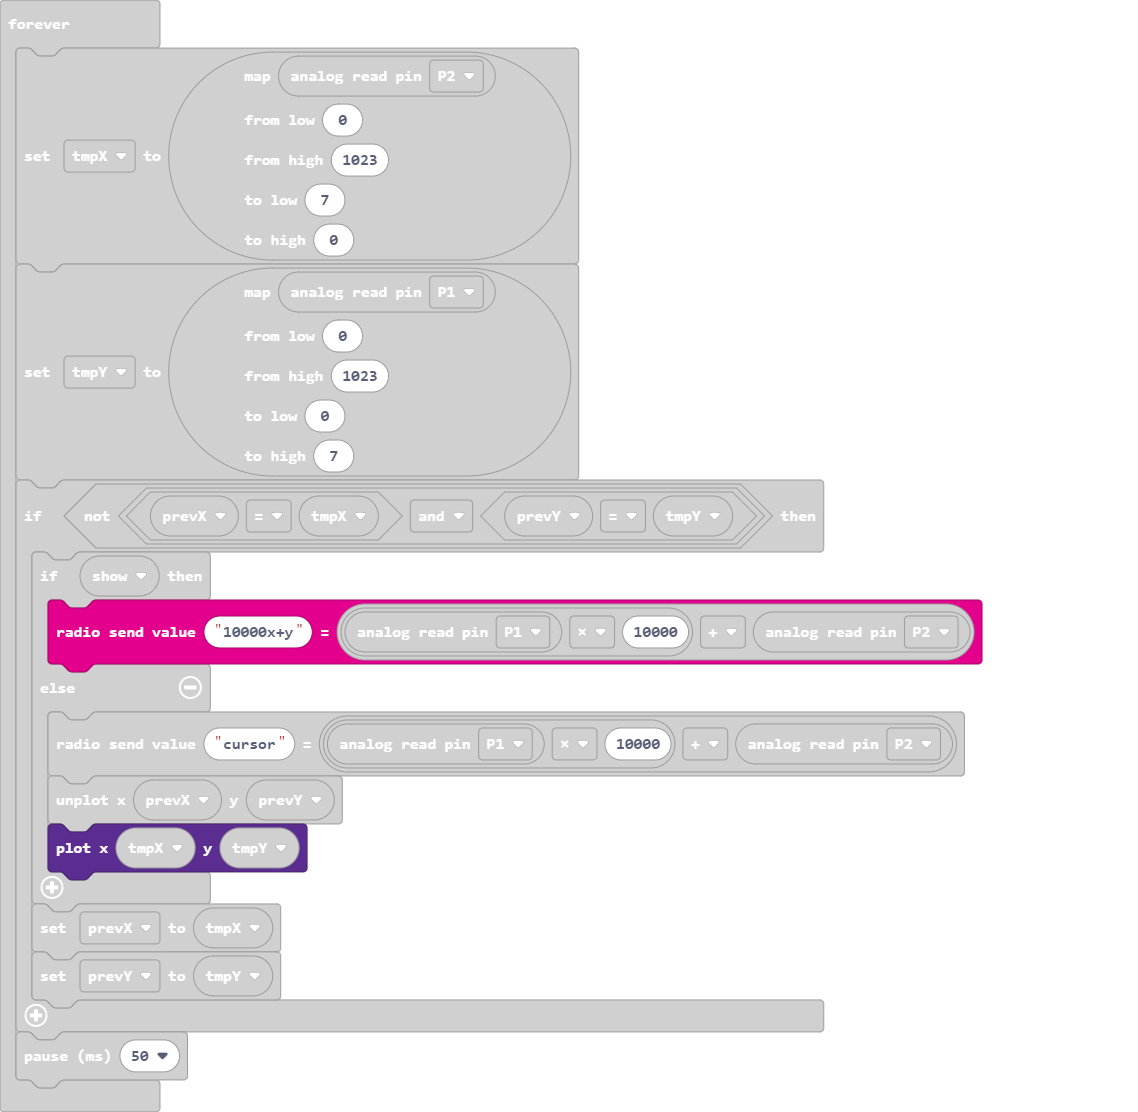
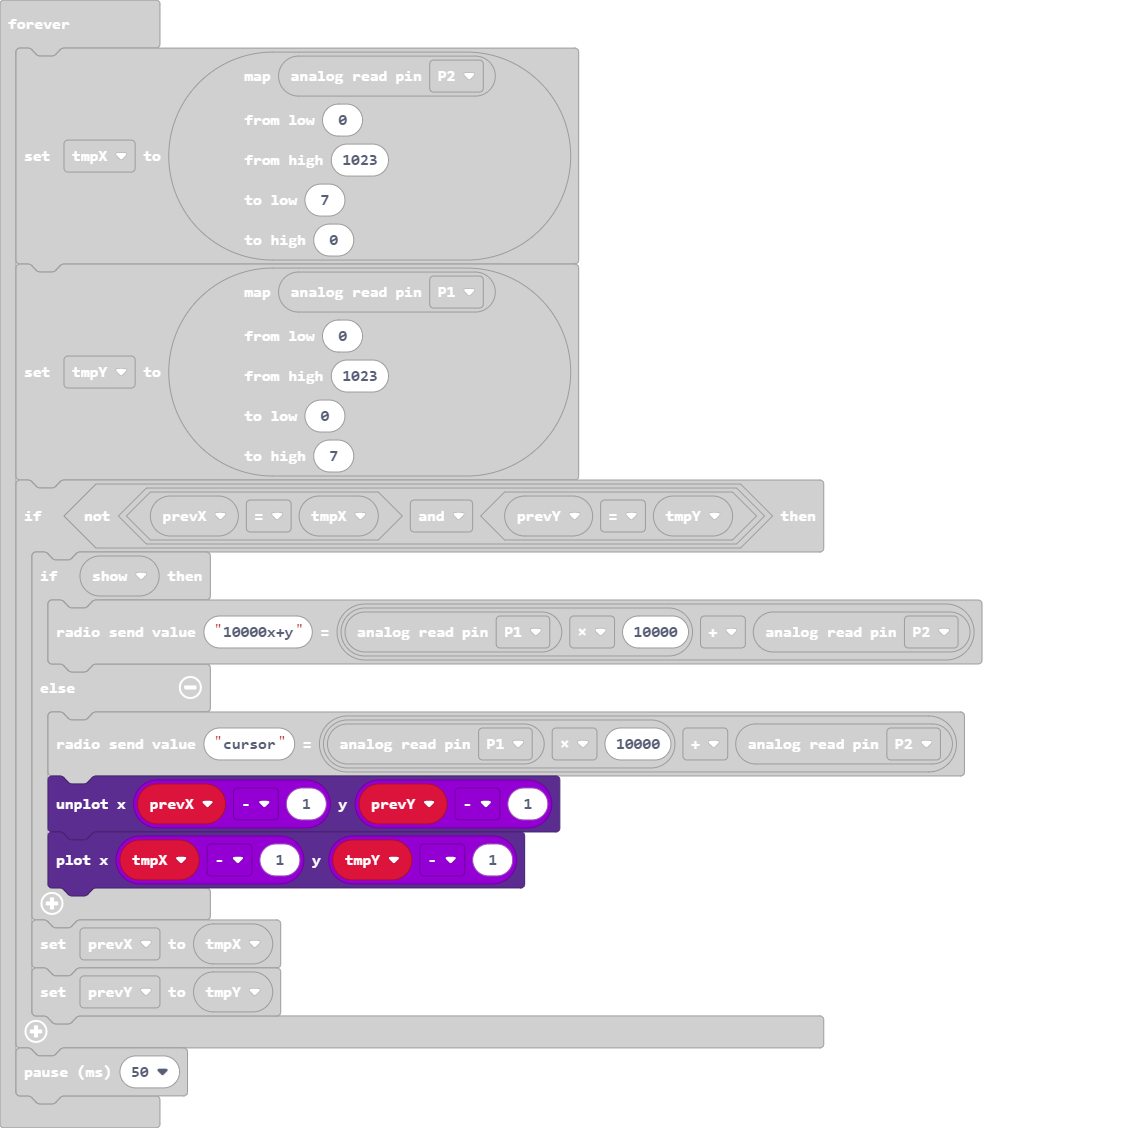
fixed led view

diff --git a/main.ts b/main.ts
@@ -49,8 +49,8 @@ basic.forever(function () {
             radio.sendValue("10000x+y", pins.analogReadPin(AnalogPin.P1) * 10000 + pins.analogReadPin(AnalogPin.P2))
         } else {
             radio.sendValue("cursor", pins.analogReadPin(AnalogPin.P1) * 10000 + pins.analogReadPin(AnalogPin.P2))
-            led.unplot(prevX, prevY)
-            led.plot(tmpX, tmpY)
+            led.unplot(prevX - 1, prevY - 1)
+            led.plot(tmpX - 1, tmpY - 1)
         }
         prevX = tmpX
         prevY = tmpY
